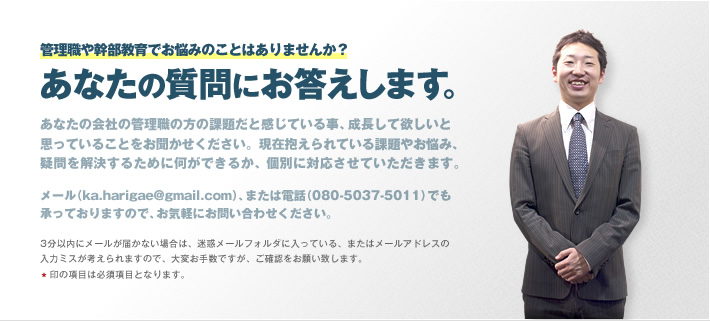
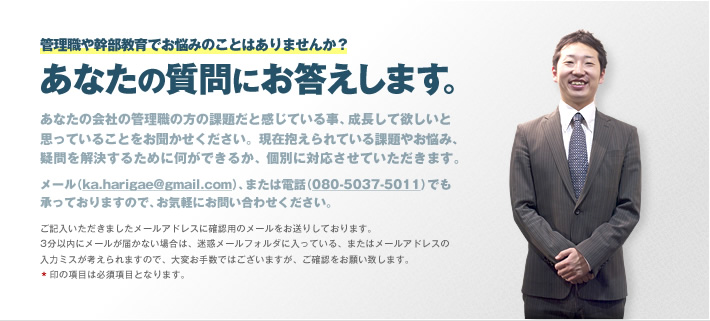
画像格納

diff --git a/orange_mail/contact/header.html b/orange_mail/contact/header.html
@@ -16,10 +16,48 @@ OF_header.css({
   background : '#ffffff',
   '-moz-box-shadow' : '0px 0px 2px rgba(0,0,0,0.25)',
   '-webkit-box-shadow' : '0px 0px 2px rgba(0,0,0,0.25)',
-  'box-shadow' : '0px 0px 2px rgba(0,0,0,0.25)'
+  'box-shadow' : '0px 0px 2px rgba(0,0,0,0.25)',
+  'text-align' : 'center'
 
 });
 
+var OF_form1 = $('#OF_form1');
+OF_form1.css({
+  width : 630,
+  marginLeft : 40,
+  marginTop : 38
+});
+
+var formtable = $('#formtable');
+formtable.css({
+  width : 630,
+  borderTop : '1px solid #dddddd',
+  borderLeft : 'none'
+})
+
+var formtableTh = $('#formtable th');
+var formtableTd = $('#formtable td');
+formtableTh.css({
+  borderRight : 'none',
+  borderBottom : '1px solid #dddddd',
+  background : '#eeeeee',
+  padding : 20,
+  textAlign : 'left'
+});
+formtableTd.css({
+  borderRight : 'none',
+  borderBottom : '1px solid #dddddd',
+  padding : 20
+});
+
+
+$('#caption').css({
+  display : 'none'
+});
+
+$('input[type=submit]').css({
+  marginBottom : 40
+});
 
 })
 </script>
@@ -29,18 +67,5 @@ OF_header.css({
 <div class="content-body">
 
 
-<img src="https://raw.github.com/kenichisuzuki/kazuma-harigae/master/orange_mail/contact/img/contact_header.jpg" width="710" height="321" />
+<h1><img src="https://raw.github.com/kenichisuzuki/kazuma-harigae/master/orange_mail/contact/img/contact_header.jpg" width="710" height="321" alt="管理職や幹部教育でお悩みのことはありませんか？あなたの質問にお答えします。" /></h1>
 
-
-<center>
-<h1 id="default">%%title%%</h1>
-<br>
-必要事項をご記入の上、送信ボタンをクリックしてください。<br>
-<br>
-すぐに登録完了メールが届きます。<br>
-万が一、3分以内にメールが届かない場合は、<br>
-メールアドレスの入力ミスが考えられますので、<br>
-大変お手数ですが、再度入力をお願いします。<br>
-<br>
-<span class="must">*</span> は必須入力です。<br>
-</center>
